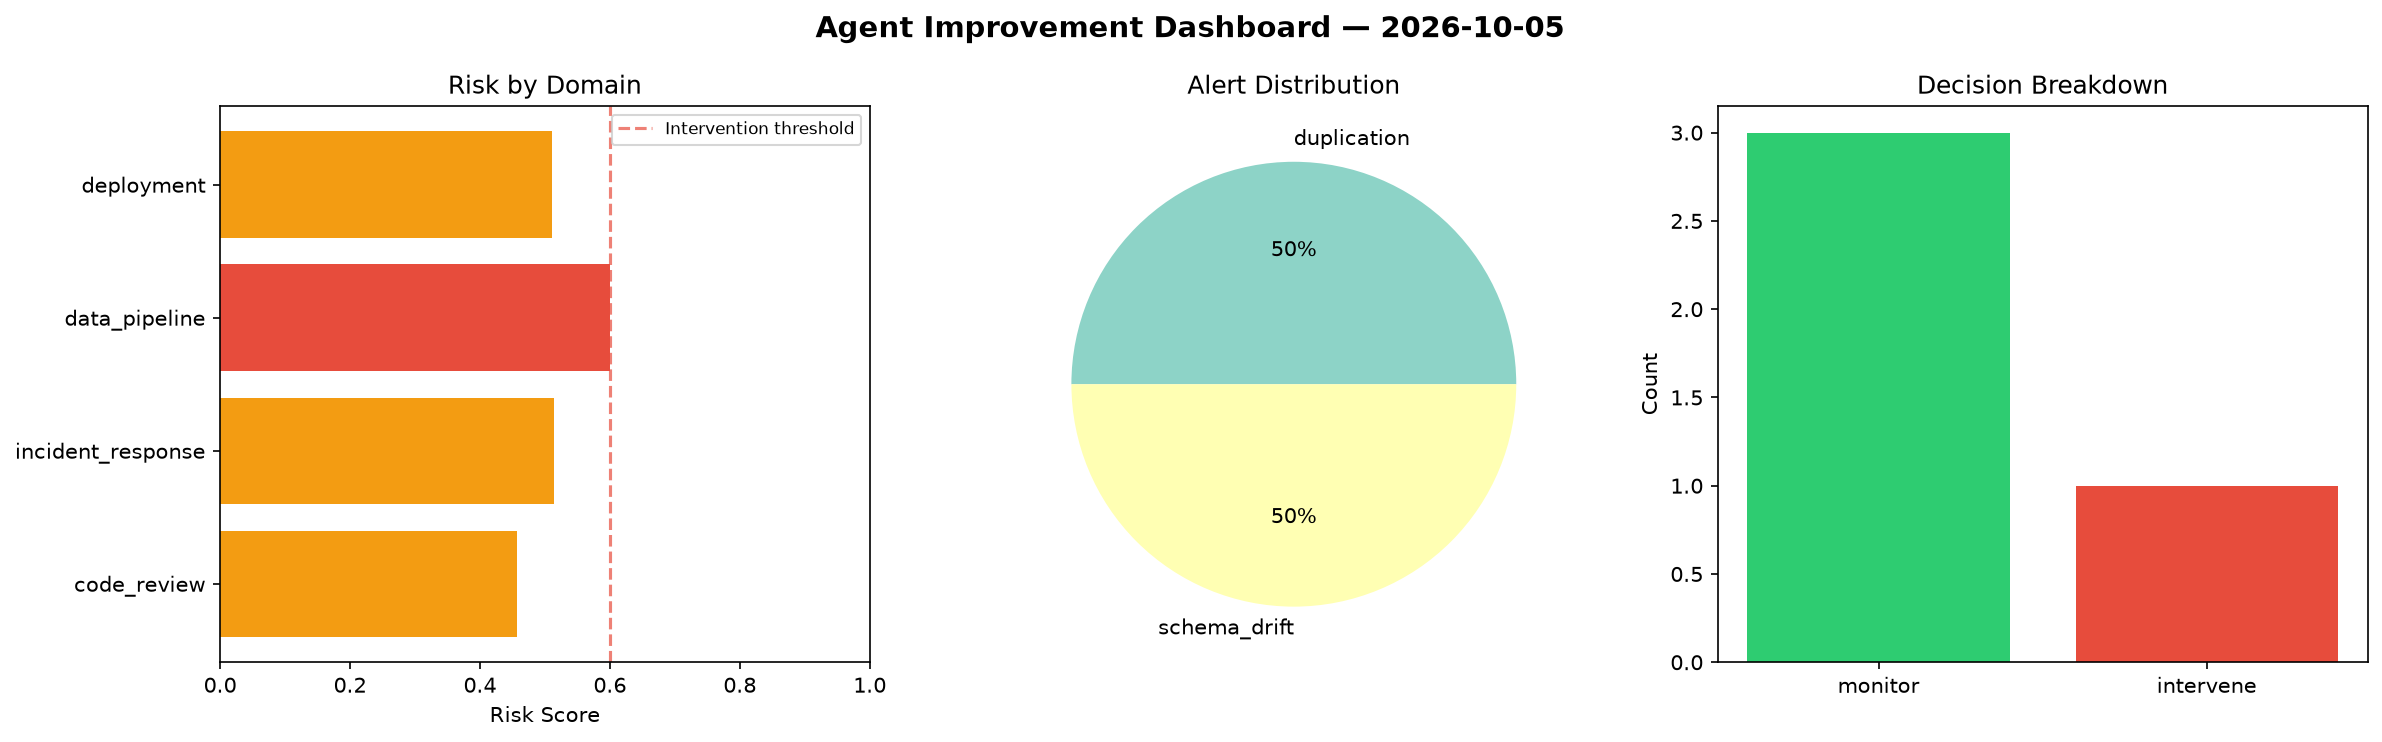
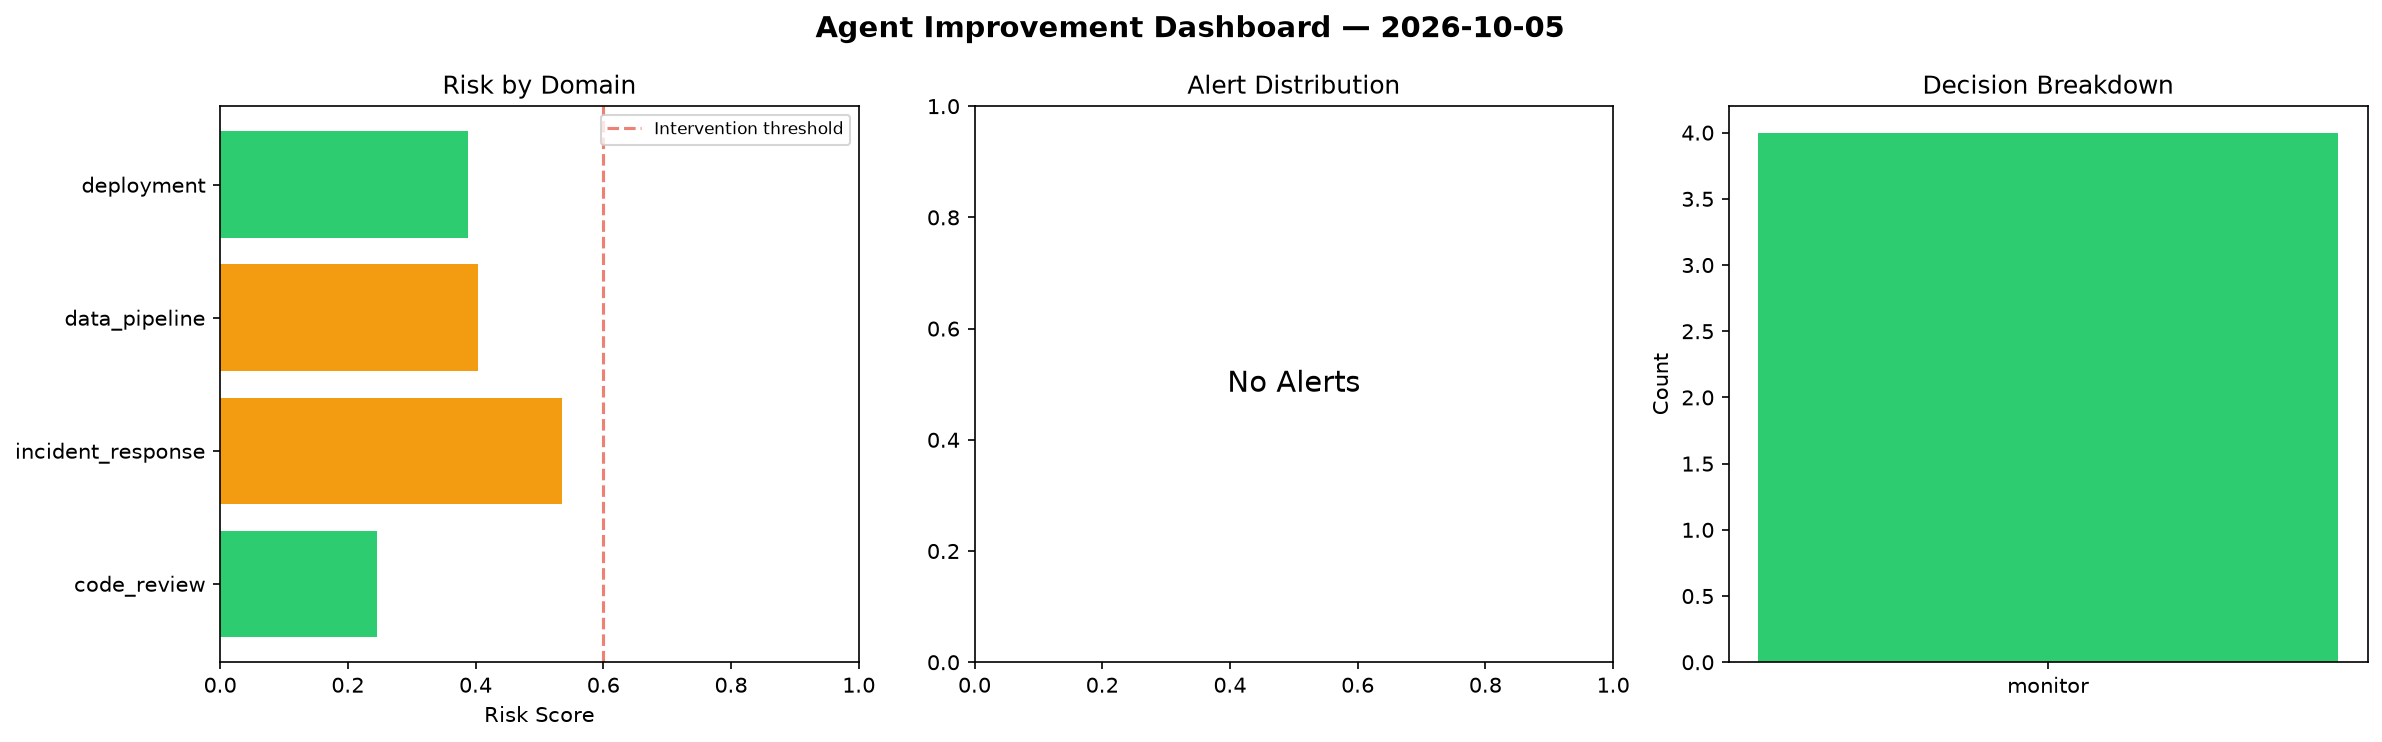
agent-improvement: daily cycle 2026-10-05T17:08

diff --git a/logs/2026-10-05.md b/logs/2026-10-05.md
@@ -1,6 +1,6 @@
 # Agent Improvement Report — 2026-10-05
 
-**Cycle ID:** `ba5fdd52` | **Avg Risk:** 0.5205 | **Interventions:** 1/4
+**Cycle ID:** `823d2d29` | **Avg Risk:** 0.3931 | **Interventions:** 0/4
 
 ![Dashboard](2026-10-05_dashboard.png)
 
@@ -10,18 +10,18 @@
 
 | Domain | Risk Score | Decision | Alerts |
 |--------|-----------|----------|--------|
-| code_review | 0.4568 | monitor | duplication |
-| incident_response | 0.5141 | monitor | none |
-| data_pipeline | 0.6007 | intervene | schema_drift |
-| deployment | 0.5102 | monitor | none |
+| code_review | 0.2461 | monitor | none |
+| incident_response | 0.5351 | monitor | none |
+| data_pipeline | 0.4034 | monitor | none |
+| deployment | 0.3878 | monitor | none |
 
 ## Delta vs Yesterday
 
 | Domain | Today | Yesterday | Change |
 |--------|-------|-----------|--------|
-| code_review | 0.4568 | 0.5476 | 📉 -16.6% |
-| incident_response | 0.5141 | 0.3435 | 📈 49.7% |
-| data_pipeline | 0.6007 | 0.2712 | 📈 121.5% |
-| deployment | 0.5102 | 0.355 | 📈 43.7% |
+| code_review | 0.2461 | 0.5476 | 📉 -55.1% |
+| incident_response | 0.5351 | 0.3435 | 📈 55.8% |
+| data_pipeline | 0.4034 | 0.2712 | 📈 48.7% |
+| deployment | 0.3878 | 0.355 | 📈 9.2% |
 
 **Refinement:** `{'adjustment': 'tighten_thresholds', 'trend': 'degrading', 'window': 4}`
